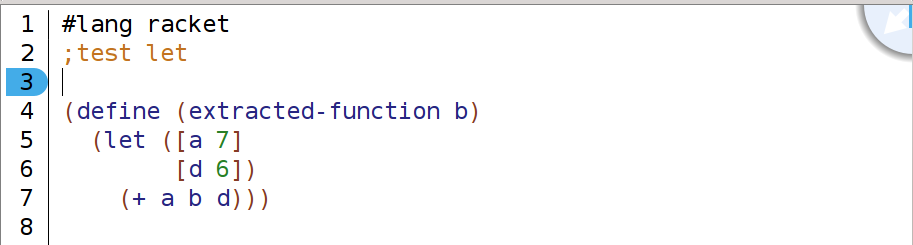
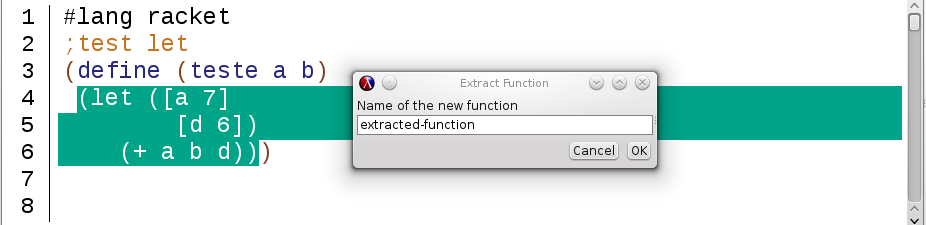
last changed made

diff --git a/thesis-template/sections/5-related-work.tex b/thesis-template/sections/5-related-work.tex
@@ -93,7 +93,7 @@ Inheritance to delegation &               &         &     & x        &          
 \begin{table}[htbp]
 \caption{Refactoring operations definitions:}
 \label{tab-Refactoring-Definitions}
-\begin{tabular}{ p{2.95cm}| p{9.15cm}}
+\begin{tabular}{ |p{2.95cm}| p{9.15cm}|}
 \hline\noalign{\smallskip}
 Refactoring name 		  & Definition \\
 \noalign{\smallskip}
@@ -254,17 +254,16 @@ The problem of this approach is that the dynamically analysis is only as good as
 However, there is already a tool \cite{soares2010making} for Eclipse that receives as input the source code and the refactoring operation to be applied. 
 Then it generates unit tests to the code and at the end it reports if the refactoring is safe to apply or not.
 
-The tool uses a static analysis to identify methods that have exactly the same modifier, return type, qualified name, parameters types and exceptions thrown in source and target programmers.
+The tool uses a static analysis to identify methods that have exactly the same modifier, return type, qualified name, parameters types and exceptions thrown.
 After identifying those methods it uses Randoop \cite{pacheco2007feedback}, a tool that generates unit tests for classes within a time limit.
 
 Pairing this tool with the Refactoring Browser would remove the main limitation of the Refactoring Browser.
 However the tool is created for static languages and it is not that trivial to create one for dynamic languages because the tools have less information in compile time.
 
 \subsection{JavaScript}
-
-A framework \cite{feldthaus2011tool} for refactoring JavaScript programs was created because there are few refactoring tools for JavaScript. 
-One reason for that is the additional difficulty that the refactoring tools have to deal with, when compared with refactoring tools made for static languages. 
-For example, when refactoring JavaScript the refactoring tools do not have information about the bindings in compile time.
+There are few refactoring tools for JavaScript but, there is a framework \cite{feldthaus2011tool} for refactoring JavaScript programs.
+One reason for the low number of refactoring tools is the additional difficulty that the refactoring tools have to deal with, when compared with refactoring tools made for static languages. 
+For example, when refactoring JavaScript, the refactoring tools do not have information about the bindings in compile time.
 
 %TODO add the refactoring that they create!
 
@@ -273,7 +272,7 @@ The pointer analysis produces over-approximations of sets in a safe way to have 
 For example in the rename, it over-approximations the set of expressions that must be modified when a property is renamed.
 By using over-approximations it is possible to be sure when a refactoring operation is valid. 
 However, it has the catch of not applying every possible refactoring operation, because the refactoring operations that the framework cannot guarantee behavior preservation are prevented.
-To prove the concept, three refactoring operations were implemented, namely the rename, encapsulate property and extract module.
+To prove the concept, three refactoring operations were implemented, namely rename, encapsulate property and extract module.
 
 It was expectable that this framework would prevent a big percentage of refactoring operations, however, after testing with 50 JavaScript programs, the overall unjustified rejections were 6.2\% of all the rejections. 
 The rejections regarding to imprecise preconditions represent 8.2\%.
@@ -288,9 +287,8 @@ Afterwards it presents Rope\footnote{https://github.com/python-rope/rope}, a ref
 
 \subsubsection{Bicycle Repair Man}
 
- is a Refactoring Tool for Python written in Python.  % and it was based on the ideas of Don Roberts PhD thesis. 
-It is a library that can be added to IDEs and editors to provide refactoring capabilities such as Emacs, Vi, Eclipse, and Sublime Text. 
-However, even having a version for sublime this tool did not improve since 2004.
+ is a Refactoring Tool for Python written in Python.
+ This refactoring tool can be added to IDEs and editors, such as Emacs, Vi, Eclipse, and Sublime Text. However, this tool did not improve since 2004.
 
 Bicycle Repair Man is an attempt to create the refactoring browser functionality for Python and has the following refactoring operations: extract method, extract variable, inline variable, move to module and rename.
 
@@ -377,8 +375,7 @@ For example the invocation of methods in Java is different for the constructors.
 It is also difficult to abstract a language when there are apparent standards in all languages but needs language-specific interpretation such as when a name is a valid name for a class in that specific language.
 
 Mapping back the language to the FAMIX is difficult in some languages because FAMIX meta-model does not have the concept of meta-classes or interfaces.
-However the most problematic issue was with dynamic languages. 
-Dynamic languages have less information available at compile-time and that makes the dependency analysis  through invocations and accesses more difficult. 
+However, the most problematic issue was with dynamic languages, because they have less information available at compile-time and that makes the dependency analysis  through invocations and accesses more difficult. 
 For example the rename method can only be done if there is no other method with the same signature.
 
 \subsubsection{JunGL} %creating refactorings  
@@ -394,13 +391,13 @@ For example: control flow successor.
 This graph have all the relevant information about the program, including the ASTs, variable binding and control flow.
 
 It defines the Program Dependence Graph using path queries. 
-This allows the correct application of many transformations that reorder statements.
+This allows the correct application of transformations that reorder statements.
 The language has lazy edges. 
 The lazy edges initially are only composed by the ASTs of the program, the rest of the information will be added later to the edges as it may be necessary, like lazy evaluation but for the Program Graph.
 The tool can handle incomplete programs, when the branch information of the graph is non existent, because of the lazy edges used. 
 %\subsubsection{Performance}
 
-The Lazy edges used allows a better performance of the refactoring because the tool will not need to compute unnecessary information and then save computations.
+%The Lazy edges used allows a better performance of the refactoring because the tool will not need to compute unnecessary information and then save computations.
 
 
 
@@ -437,16 +434,17 @@ That makes the refactoring operations more difficult when compared with the refa
 
 In addition, dynamic languages are very different from each other whereas the static languages are more similar.
 For example, Java and C\# are very similar and they have similar refactoring operations.
-Even C++ that is not that similar to Java or C\# have some refactoring operations available that are similar to Java and C\#. 
+%Even C++ that is not that similar to Java or C\# have some refactoring operations available that are similar to Java and C\#. 
 This difference makes it a bit more difficult for the refactoring tools for dynamic languages when compared to the static one's. %they can't use the same refactoring bases/preconditions
 
 %IDEs help with the refactoring operations.
-Another difference between refactoring tools is the IDE support. 
-Static refactoring tools have an IDE support for the refactoring operations, thus making it easier when compared to the usual refactoring tools for dynamic languages, which help managing the information. 
-However this becomes an advantage when considering the interoperability of the refactoring tools, thus making it easier to use in different text-editors or IDEs.
+Another difference between refactoring tools is the IDE support that helps managing the program's information.
+%Static refactoring tools have an IDE support for the refactoring operations, thus making it easier when compared to the usual refactoring tools for dynamic languages.
+Usually dynamic refactoring tools do not have that support, making it harder to create refactoring operations when compared to the static refactoring tools.
+However, this becomes an advantage when considering the interoperability of the refactoring tools, thus making it easier to use in different text-editors or IDEs.
 
 %Dynamic even having way less refactoring operations when compared with static refactoring tools, they at least have the most used refactoring operation.
-Even having way less refactoring operations available, when compared with static refactoring tools, the refactoring tools for dynamic languages at least have the most used refactoring operation, namely the rename.
+Even having way less refactoring operations available, when compared with static refactoring tools, the refactoring tools for dynamic languages at least have the most used refactoring operation, which is the rename.
 
 
 %Meta-models
@@ -462,6 +460,6 @@ Even having way less refactoring operations available, when compared with static
 %motivar pessoas para fazer refactoring, usar o IDE pedagogico e linguagem altamente pedagogico e fazer refactorings pedagogicos.
 
 
-To conclude, there is a lack of refactoring tools for dynamic languages and none of the existent ones cares about inexperienced users that are starting to program. 
+To conclude, there is a lack of refactoring tools for dynamic languages and none of the existent ones is adequate for inexperienced users. 
 And there are some dynamic languages such as Scheme, Racket and Python that are used to teach inexperienced programmers how to program.
-Without a refactoring tool for these languages, the users first contact with these tools is postponed and that might explain the low adoption of refactoring tools.
+Without a refactoring tool for these languages, the first contact with these tools is postponed and that might explain the low adoption of refactoring tools.

diff --git a/thesis-template/sections/6-architecture.tex b/thesis-template/sections/6-architecture.tex
@@ -9,13 +9,12 @@
 %introduction
 This section proposes a solution to solve the need of a refactoring tool designed for inexperienced users.
 %A refactoring tool that would suit an inexperienced programmer who is learning how to program is needed.
-Because it is targeted for inexperienced users it is important to have an environment that is not complex like Eclipse and to be for a programing language that is used in introductory courses, such as Python and Racket.
-Racket is a dynamic language that is known for being used as in introductory programming courses in schools around the world. 
+Because it is targeted for inexperienced users it is important to have an environment that is not complex, like Eclipse, and to be for a programing language that is used in introductory courses, such as Python and Racket.
 Racket has an IDE, DrRacket, that is a pedagogic environment \cite{drscheme_pegadogy} and it also supports development and extension of other programming languages \cite{tobin2011languages}. 
 Recently  an implementation of Python for Racket was added \cite{ramos2014implementation}. 
-This addition makes it possible to have Python programs in DrRacket and with that the pedagogical environment gains another language that is used in introductory courses around the world. Because of that DrRacket environment was chosen. 
+This addition makes it possible to have Python programs in DrRacket, and with that the pedagogical environment gains another language that is used in introductory courses around the world. Because of that DrRacket environment was chosen. 
 Racket programming language was chosen because it is easier to create refactoring operations for Racket in the DrRacket environment.
-This tool will motivate the inexperienced programmers to start using tool assisted refactoring operations and DrRacket seams to be the ideal candidate to have that refactoring tool.
+This tool will motivate the inexperienced programmers to start using tool assisted refactoring operations while they are learning.
 
 
 %use cases: To validate the architecture.
@@ -124,7 +123,7 @@ The final result can be seen in {\bf Figure~\ref{fig:extractAfter}}.
 The extract function refactoring could automatically paste the extracted function, however this way the user can choose the function's location.
 \begin{figure}[htbp]
 	\centering
-	\includegraphics[width=0.9\textwidth]{img/extractV3.png}
+	\includegraphics[width=0.9\textwidth]{img/extractV2-1.png}
 	\caption{Before the Extract function}
 	\label{fig:extractBefore}
 \end{figure}
@@ -151,11 +150,12 @@ The end result is shown in {\bf Figure~\ref{fig:renameAfter}}.
 
 \subsubsection{Add-prefix}
 
-This is a particular refactoring operation for Racket. Adding a prefix is normally used when there are naming conflicts with two different libraries. The user goes to the library name, and adds a prefix.
-In {\bf Figure~\ref{fig:addPrefixBefore}} the arrows show which functions belong to the ``pict3d'' library.
-Then the user selects a name for the prefix that name will be added, and then the final result is shown in {\bf Figure~\ref{fig:addPrefixAfter}}.
+The user selects the library name that wants to add the prefix, in this case the ``pict3d''.
+In {\bf Figure~\ref{fig:addPrefixBefore}} shows the the arrows pointing to the functions belong to the library.
+Then the user selects a name for the prefix that name will be added to each function.
+The final result can be seen in {\bf Figure~\ref{fig:addPrefixAfter}}.
 
-\begin{figure}[hb!]
+\begin{figure}[htbp]
 	\centering
 	\includegraphics[width=0.9\textwidth]{img/add-prefixV2-1.png}
 	\caption{Before adding the prefix}
@@ -169,7 +169,7 @@ Then the user selects a name for the prefix that name will be added, and then th
 %	\label{fig:addPrefixDuring}
 %\end{figure}
 
-\begin{figure}[hb!]
+\begin{figure}[htbp]
 	\centering
 	\includegraphics[width=0.9\textwidth]{img/add-prefixV2-3.png}
 	\caption{After the Add-prefix refactoring}

diff --git a/thesis-template/sections/overview.tex b/thesis-template/sections/overview.tex
@@ -45,12 +45,12 @@ Regardless when is done, the refactoring can always be decomposed in different a
 \subsection{Refactoring Correctness}
 %survey of software refactoring tools \cite{erb2010survey} %add citation
 %
-Refactoring must be correct, that means preserving the program behavior.
+Refactoring must preserve the program's behavior in order to be correct.
 However, there is no consensual definition for what behavior preservation is.
 Some authors say that the behavior of the program is the output and preserving the input-output behavior preserves the program behavior suggested by Opdyke \cite{opdyke1992refactoring}.
 However, other authors think that preserving the output is insufficient, since other aspects may be relevant as well. For example, for real-time software, the execution time of certain operations is an important aspect of the behavior. 
 One way to deal with behavior preservation is to have an extensive set of test cases and if all these tests still pass after the refactoring, it is highly probable that the refactoring is correct \cite{mens2004survey}.
-A more formal approach is to prove that the refactoring operations preserve the full program semantics. For Prolog, that has simple and formally defined semantics, it is simple to prove that the refactoring preserve the program semantics \cite{proietti1991semantics}. %27?
+A more formal approach is to prove that the refactoring operations preserve the full program semantics. For Prolog, that has simple and formally defined semantics, it is simple to prove that refactoring preserve the program semantics \cite{proietti1991semantics}. %27?
 But for more complex languages such as C++, which the formal semantics is extremely difficult to define, typically it is necessary to put restrictions to the refactoring operations or to the language constructs and the refactoring tool may be limited to a particular version of a particular compiler \cite{tokuda2001evolving}.%28?
 % \cite{mens2004survey}.
 

diff --git a/thesis-template/sections/3-introduction.tex b/thesis-template/sections/3-introduction.tex
@@ -43,7 +43,7 @@ By having a refactoring tool that allows the user to extract functions the inexp
 % Example extract method. inexperienced users create one big function that do all the program work. Create a function that should clearly have a function extracted from the inside.
 
 
-\begin{lstlisting}[frame=single, caption=Fibonacci function first implementation, label={lst:Fibonacci}, language=Python]
+\begin{lstlisting}[frame=single, caption=Algorithm first implementation, label={lst:Fibonacci}, language=Python]
 def fibonacci(number=1):
 	previous = 0
 	current = 1
@@ -60,7 +60,7 @@ def fibonacci(number=1):
 \end{lstlisting}
 
 
-\begin{lstlisting}[frame=single, caption=Fibonacci function after using extract function, label={lst:FibonacciRefactored}, language=Python]
+\begin{lstlisting}[frame=single, caption=Algorithm after using extract function, label={lst:FibonacciRefactored}, language=Python]
 def fibonacci_seq(number):
 	previous = 0
 	current = 1

diff --git a/thesis-template/report.tex b/thesis-template/report.tex
@@ -22,7 +22,7 @@
 \title{Refactoring for Dynamic Languages}
 
 %\subtitle{Your Thesis subtitle}
-\author{Rafael Reia,rafael.reia@tecnico.ulisboa.pt}
+\author{Rafael Reia, rafael.reia@tecnico.ulisboa.pt}
 \authorrunning{Rafael Reia}
 \titlerunning{Refactoring for Dynamic Languages}
 \institute{Instituto Superior T\'ecnico, Universidade de Lisboa}
